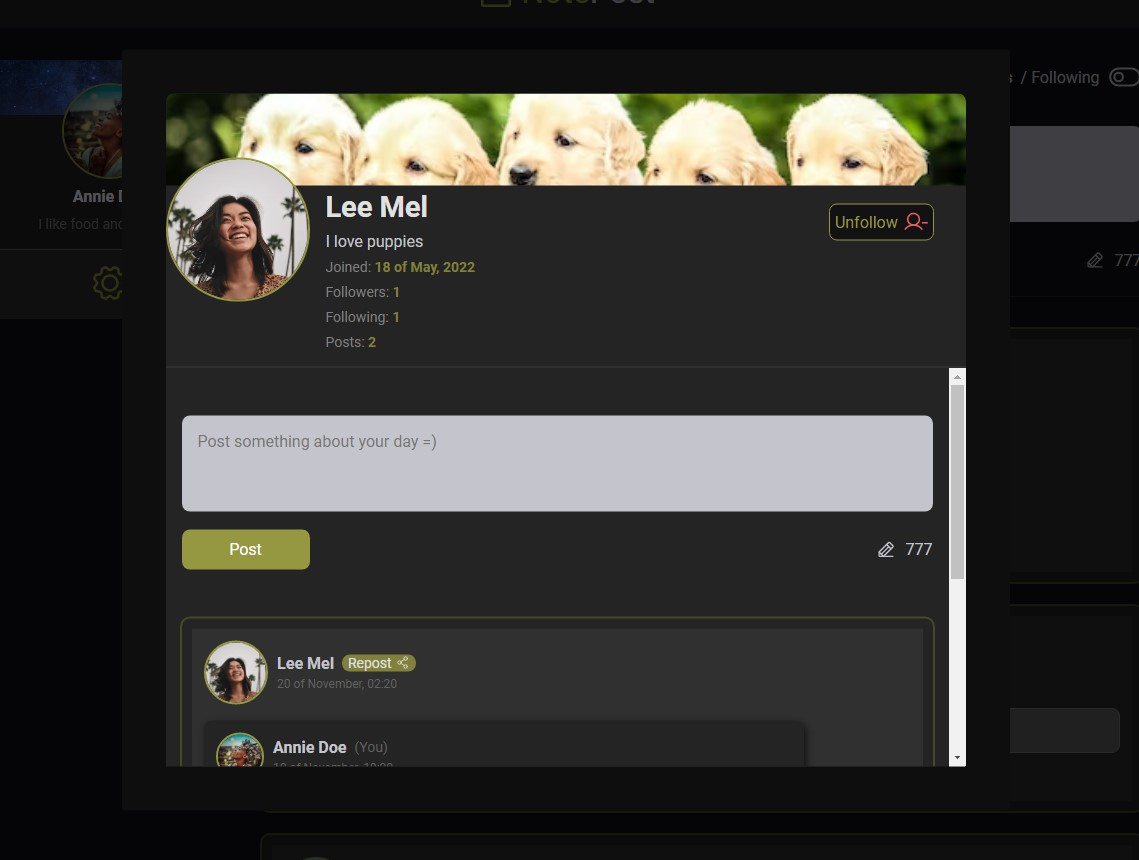
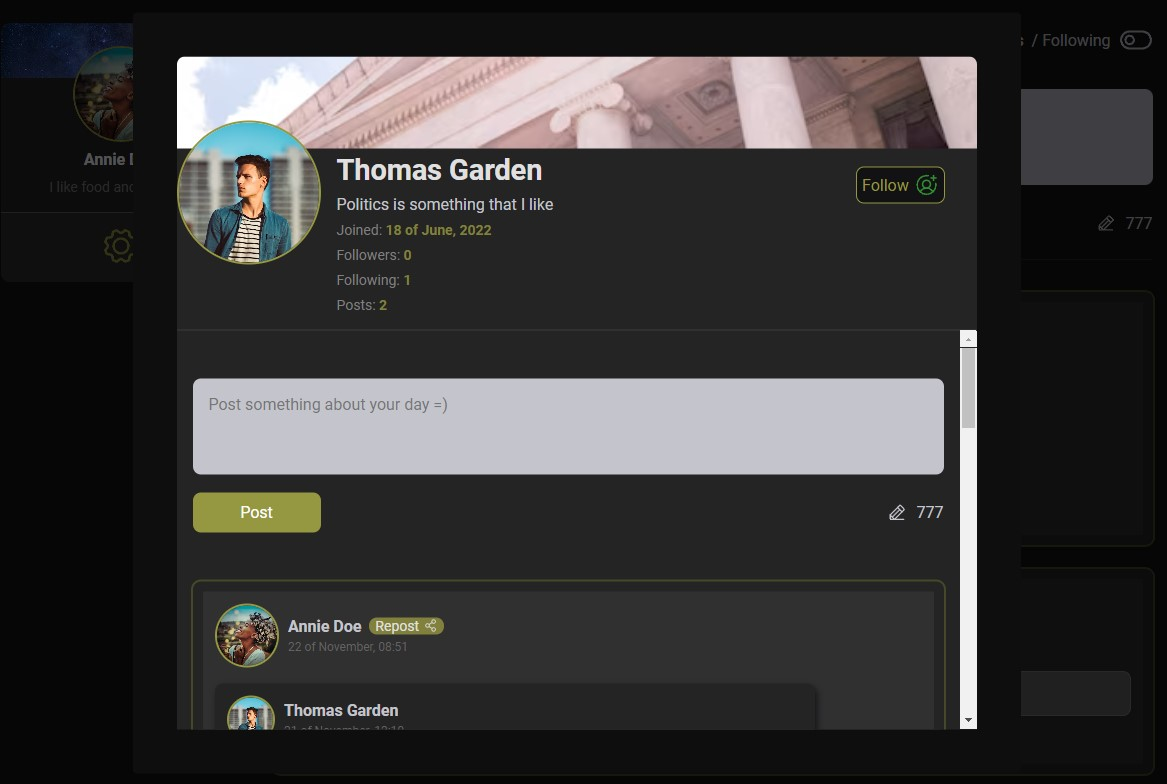
:pencil: Readme / :star: Images samples/ :wrench: Local Storage Contents

diff --git a/readme.md b/readme.md
@@ -35,5 +35,6 @@ _Based on twitter, this is an app to post content, you can see other users profi
 
 <h2>📸 App Images</h2>
 
-![NotePost1](/public/imgs_samples/notepost.jpg "Project View")
-![NotePost2](/public/imgs_samples/notepost2.jpg "Add new task")
+![NotePost1](/public/imgs_samples/notepost.jpg "Home")
+![NotePost2](/public/imgs_samples/notepost2.jpg "User not followed")
+![NotePost3](/public/imgs_samples/notepost3.jpg "User followed")
